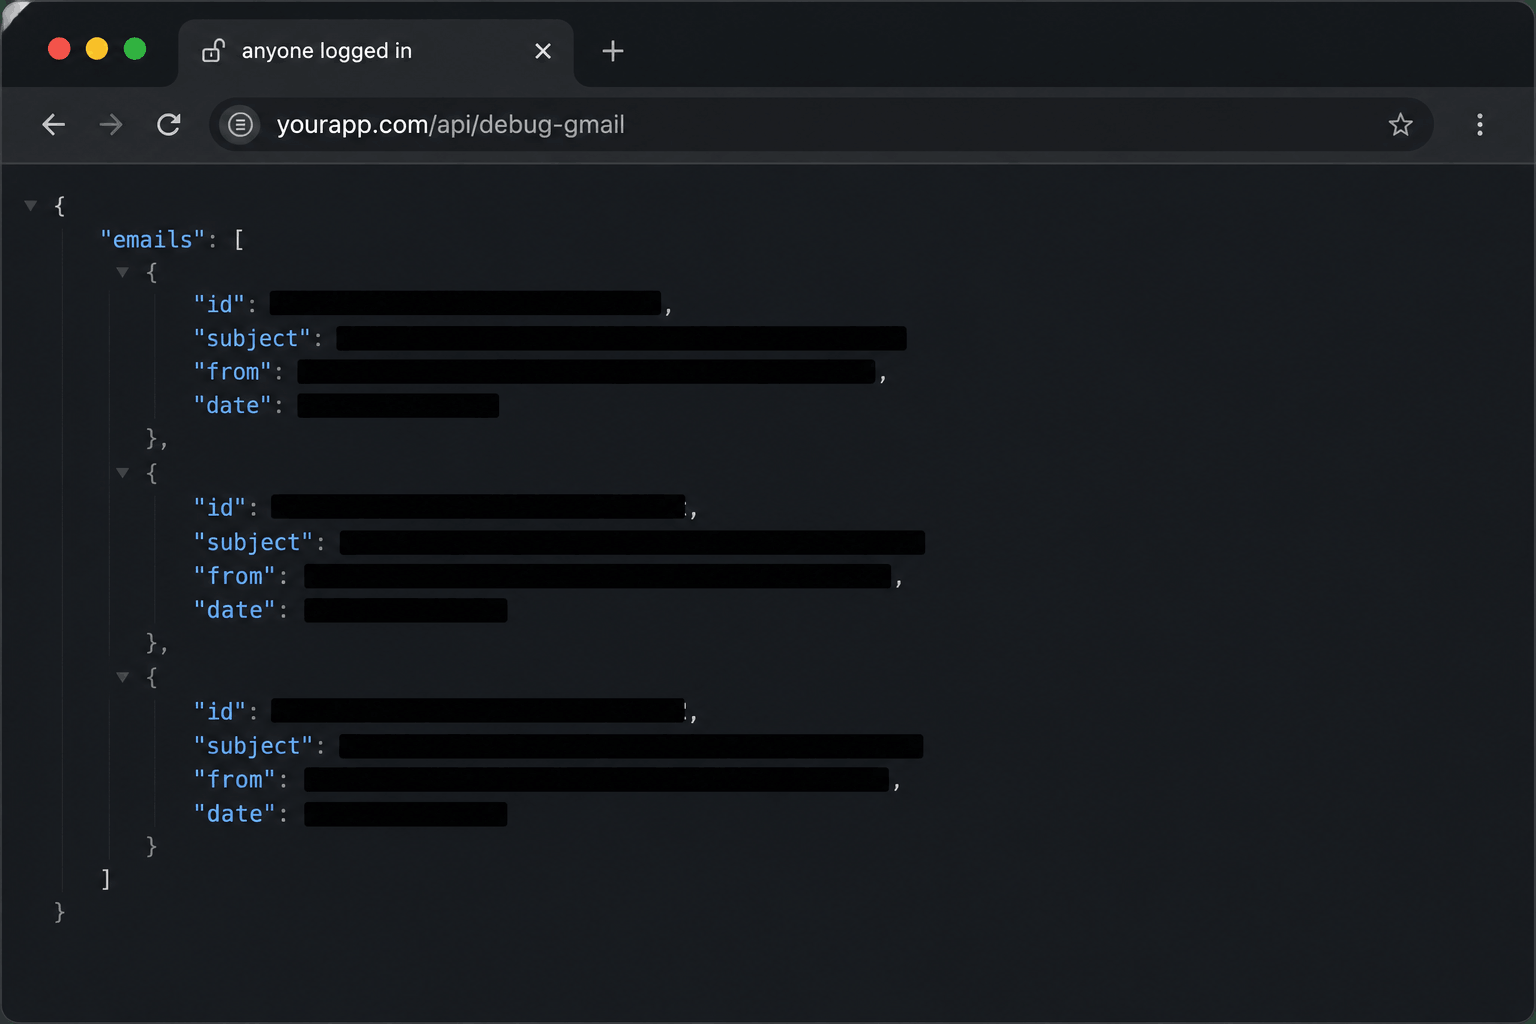
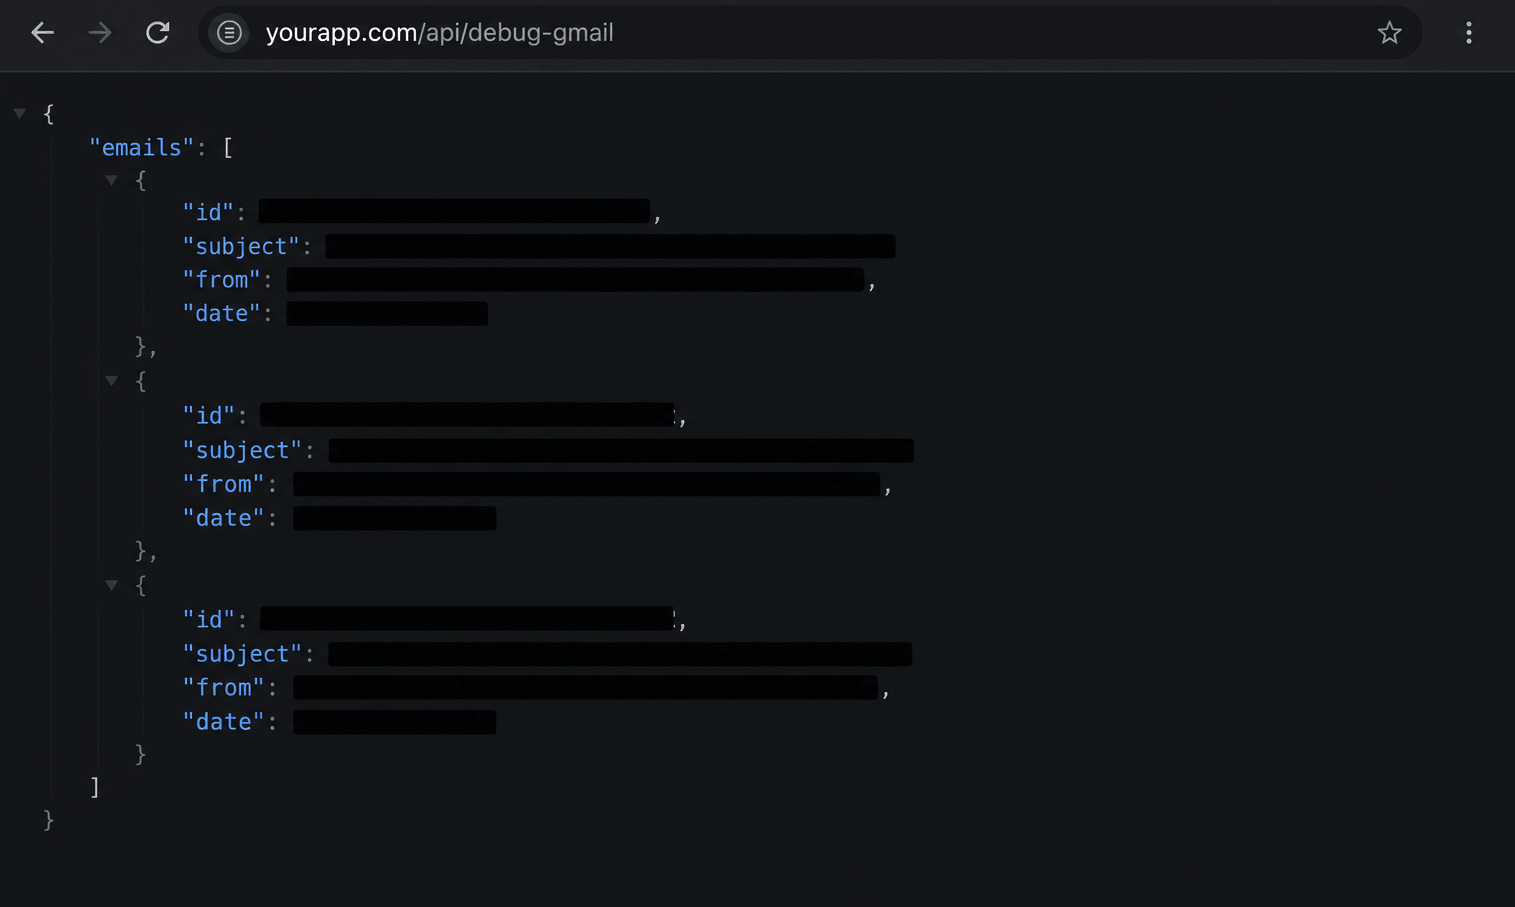
Fix checklist rendering and image caption styling
- Render full task-list labels (inline code no longer truncates items)
- Top-align checkboxes and loosen checklist line height
- Sentence-case image captions with edge padding
- Fall back to 0 views when Redis is unavailable instead of 500ing
- Update Fable blog post content and diagram image

diff --git a/app/components/mdx.tsx b/app/components/mdx.tsx
@@ -109,14 +109,14 @@ function createHeading(level: number) {
 
 function CustomCheckbox({ checked, children }: { checked: boolean; children: React.ReactNode }) {
   return (
-    <div className="flex items-center">
+    <div className="flex items-start">
       <input
         type="checkbox"
         checked={checked}
         readOnly
-        className="h-3.5 w-3.5 accent-neutral-600 checked:dark:accent-neutral-400 transition-all duration-150 ease-in-out"
+        className="mt-[11px] h-3.5 w-3.5 shrink-0 accent-neutral-600 checked:dark:accent-neutral-400 transition-all duration-150 ease-in-out"
       />
-      <label className="ml-1">{children}</label>
+      <label className="ml-1 leading-7.5">{children}</label>
     </div>
   );
 }
@@ -124,7 +124,7 @@ function CustomCheckbox({ checked, children }: { checked: boolean; children: Rea
 function CustomListItem({ children }: { children: any }) {
   if (children && children[0]?.type === "input") {
     const checked = children[0]?.props?.checked ?? false;
-    const checkboxLabel = children[2];
+    const checkboxLabel = children.slice(1);
     return (
       <li className="task-list-item">
         <CustomCheckbox checked={checked}>{checkboxLabel}</CustomCheckbox>

diff --git a/app/blog/[slug]/page.tsx b/app/blog/[slug]/page.tsx
@@ -82,7 +82,10 @@ export async function generateMetadata({ params }: Props) {
 export default async function Blog({ params }: Props) {
   const { slug } = await params;
   let posts = getBlogPosts();
-  const views = (await redis.get<number>(["pageviews", "projects", slug].join(":"))) ?? 0;
+  const views = await redis
+    .get<number>(["pageviews", "projects", slug].join(":"))
+    .then((v) => v ?? 0)
+    .catch(() => 0);
 
   const sortedPosts = posts.sort(
     (a, b) =>

diff --git a/app/components/rounded-image.tsx b/app/components/rounded-image.tsx
@@ -27,7 +27,7 @@ const RoundedImage = (props) => {
   return (
     <>
       <div className="rounded-img md:bg-neutral-50 md:border-neutral-200 md:dark:bg-neutral-800 md:border md:dark:border-neutral-700 md:p-4 md:rounded-sm my-8">
-        <p className="!mt-0 text-xs tracking-wide font-medium uppercase !text-neutral-400 !dark:text-neutral-800 hidden md:block">
+        <p className="!mt-0 px-1 text-xs tracking-wide font-medium !text-neutral-400 !dark:text-neutral-800 hidden md:block">
           {props.alt}
         </p>
         <Image
@@ -46,7 +46,7 @@ const RoundedImage = (props) => {
             isModalOpen={isModalOpen}
           />
         )}
-        <p className="!mt-4 text-center text-xs font-medium uppercase !text-neutral-400 !dark:text-neutral-800 block md:hidden">
+        <p className="!mt-4 px-4 text-center text-xs font-medium !text-neutral-400 !dark:text-neutral-800 block md:hidden">
           {props.alt}
         </p>
       </div>